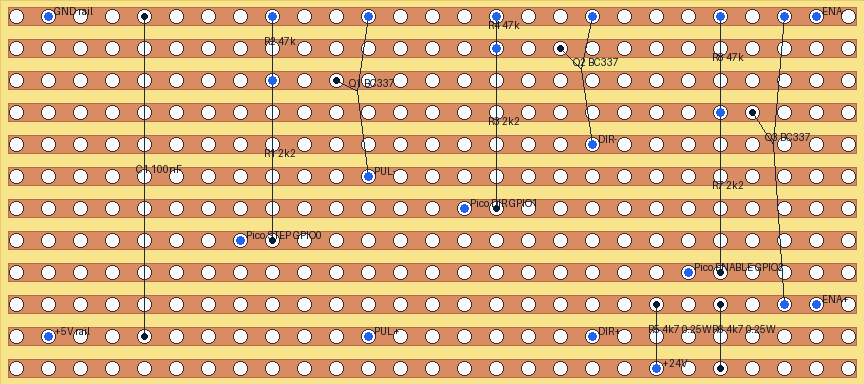
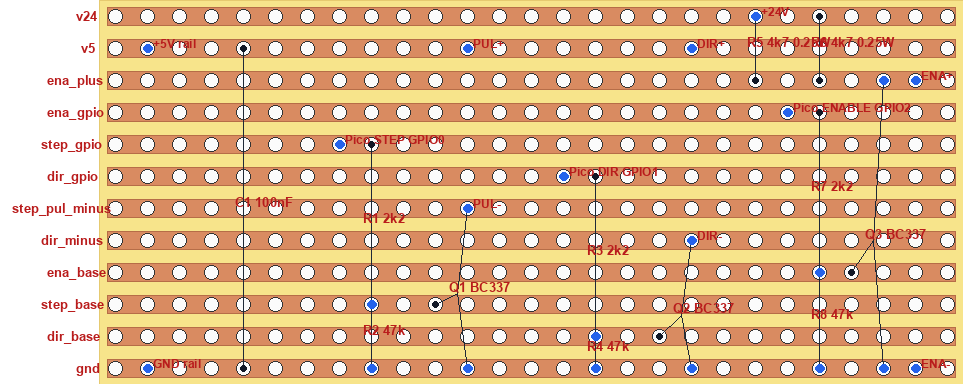
Add better stripboard visu

diff --git a/src/mege_ender_3v3ke_idex/circuit_schematics/dsl.py b/src/mege_ender_3v3ke_idex/circuit_schematics/dsl.py
@@ -45,10 +45,15 @@ STRIPBOARD_HOLE_STROKE = "#333333"
 STRIPBOARD_OVERLAY_NODE_FILL = "#2563eb"
 STRIPBOARD_OVERLAY_TERMINAL_FILL = "#111827"
 STRIPBOARD_OVERLAY_ELEMENT_STROKE = "#1f2937"
-STRIPBOARD_OVERLAY_TEXT_FILL = "#111827"
+STRIPBOARD_OVERLAY_TEXT_FILL = "#b91c1c"
+STRIPBOARD_OVERLAY_TEXT_HALO = "#ffffff"
 STRIPBOARD_OVERLAY_STROKE_WIDTH = 0.045
 STRIPBOARD_OVERLAY_NODE_RADIUS = 0.14
 STRIPBOARD_OVERLAY_TERMINAL_RADIUS = 0.09
+STRIPBOARD_OVERLAY_ELEMENT_LABEL_SIZE = 0.42
+STRIPBOARD_OVERLAY_NODE_LABEL_SIZE = 0.36
+STRIPBOARD_OVERLAY_NET_LABEL_SIZE = 0.42
+STRIPBOARD_OVERLAY_NET_LABEL_MARGIN = 3.1
 
 
 class NodeType(Enum):
@@ -595,12 +600,14 @@ def assign_schema_nets_to_stripboard(
     board_height = len(net_visualizations)
     x_offset = left_margin_pitches - min_col
 
+    board_visualizations = tuple(reversed(net_visualizations))
+
     return StripboardNetAssignment(
         stripboard=create_stripboard(board_width, board_height),
-        net_visualizations=net_visualizations,
+        net_visualizations=board_visualizations,
         net_rows={
             visualization.net_name: row
-            for row, visualization in enumerate(net_visualizations)
+            for row, visualization in enumerate(board_visualizations)
         },
         x_offset=x_offset,
         column_pitch=float(column_pitch),
@@ -912,7 +919,8 @@ def _render_stripboard_png(stripboard, path, scale):
 def _render_stripboard_overlay_svg(stripboard, assignment, schema, path, scale):
     scale = _validate_render_scale(scale)
     width, height = _stripboard_size(stripboard)
-    width_px = width * scale
+    label_margin = STRIPBOARD_OVERLAY_NET_LABEL_MARGIN
+    width_px = (width + label_margin) * scale
     height_px = height * scale
 
     lines = [
@@ -920,7 +928,8 @@ def _render_stripboard_overlay_svg(stripboard, assignment, schema, path, scale):
         (
             f'<svg xmlns="http://www.w3.org/2000/svg" '
             f'width="{width_px:.0f}" height="{height_px:.0f}" '
-            f'viewBox="0 0 {width:.3f} {height:.3f}">'
+            f'viewBox="{-label_margin:.3f} 0 '
+            f'{width + label_margin:.3f} {height:.3f}">'
         ),
         "  <title>Stripboard Schematic Overlay</title>",
         (
@@ -934,6 +943,18 @@ def _render_stripboard_overlay_svg(stripboard, assignment, schema, path, scale):
     for row in range(stripboard.height_pitches):
         x, y, strip_width, strip_height = _stripboard_strip_rect(stripboard, row)
         net_name = _stripboard_row_net_name(assignment, row)
+        if net_name:
+            lines.append(
+                f'  <text class="overlay-net-label" '
+                f'data-row="{row}" data-net="{_svg_attr(net_name)}" '
+                f'x="-0.180" y="{STRIPBOARD_BOARD_MARGIN + row + 0.135:.3f}" '
+                f'font-size="{STRIPBOARD_OVERLAY_NET_LABEL_SIZE:.3f}" '
+                f'font-weight="700" text-anchor="end" '
+                f'fill="{STRIPBOARD_OVERLAY_TEXT_FILL}" '
+                f'stroke="{STRIPBOARD_OVERLAY_TEXT_HALO}" stroke-width="0.075" '
+                f'paint-order="stroke">'
+                f'{_svg_text(net_name)}</text>'
+            )
         lines.append(
             f'  <rect class="copper-strip" data-row="{row}" '
             f'data-net="{_svg_attr(net_name)}" '
@@ -977,8 +998,11 @@ def _render_stripboard_overlay_svg(stripboard, assignment, schema, path, scale):
         lines.append(
             f'  <text class="overlay-element-label" '
             f'x="{center[0]:.3f}" y="{center[1] - 0.18:.3f}" '
-            f'font-size="0.28" text-anchor="middle" '
-            f'fill="{STRIPBOARD_OVERLAY_TEXT_FILL}">'
+            f'font-size="{STRIPBOARD_OVERLAY_ELEMENT_LABEL_SIZE:.3f}" '
+            f'font-weight="700" text-anchor="middle" '
+            f'fill="{STRIPBOARD_OVERLAY_TEXT_FILL}" '
+            f'stroke="{STRIPBOARD_OVERLAY_TEXT_HALO}" stroke-width="0.075" '
+            f'paint-order="stroke">'
             f'{_svg_text(element_overlay["label"])}</text>'
         )
 
@@ -1008,7 +1032,10 @@ def _render_stripboard_overlay_svg(stripboard, assignment, schema, path, scale):
             lines.append(
                 f'  <text class="overlay-node-label" '
                 f'x="{x + 0.18:.3f}" y="{y - 0.16:.3f}" '
-                f'font-size="0.25" fill="{STRIPBOARD_OVERLAY_TEXT_FILL}">'
+                f'font-size="{STRIPBOARD_OVERLAY_NODE_LABEL_SIZE:.3f}" '
+                f'font-weight="700" fill="{STRIPBOARD_OVERLAY_TEXT_FILL}" '
+                f'stroke="{STRIPBOARD_OVERLAY_TEXT_HALO}" stroke-width="0.070" '
+                f'paint-order="stroke">'
                 f'{_svg_text(marker["label"])}</text>'
             )
 
@@ -1026,11 +1053,42 @@ def _render_stripboard_overlay_png(stripboard, assignment, schema, path, scale):
         ) from error
 
     width, height = _stripboard_size(stripboard)
-    image_width = max(1, int(round(width * scale)))
+    label_margin = STRIPBOARD_OVERLAY_NET_LABEL_MARGIN
+    image_width = max(1, int(round((width + label_margin) * scale)))
     image_height = max(1, int(round(height * scale)))
     image = Image.new("RGB", (image_width, image_height), "white")
     draw = ImageDraw.Draw(image)
-    _draw_stripboard_base_png(draw, stripboard, scale)
+    board_image = Image.new(
+        "RGB",
+        (
+            max(1, int(round(width * scale))),
+            image_height,
+        ),
+        "white",
+    )
+    _draw_stripboard_base_png(ImageDraw.Draw(board_image), stripboard, scale)
+    image.paste(board_image, (int(round(label_margin * scale)), 0))
+
+    element_font = _overlay_png_font(scale, STRIPBOARD_OVERLAY_ELEMENT_LABEL_SIZE)
+    node_font = _overlay_png_font(scale, STRIPBOARD_OVERLAY_NODE_LABEL_SIZE)
+    net_font = _overlay_png_font(scale, STRIPBOARD_OVERLAY_NET_LABEL_SIZE)
+
+    for row in range(stripboard.height_pitches):
+        net_name = _stripboard_row_net_name(assignment, row)
+        if not net_name:
+            continue
+        draw.text(
+            _px_point(
+                (
+                    label_margin - 0.2 - len(net_name) * 0.18,
+                    STRIPBOARD_BOARD_MARGIN + row - 0.22,
+                ),
+                scale,
+            ),
+            net_name,
+            fill=STRIPBOARD_OVERLAY_TEXT_FILL,
+            font=net_font,
+        )
 
     element_width = _px_overlay_stroke(scale)
     for element_overlay in _stripboard_overlay_elements(schema, assignment):
@@ -1038,27 +1096,37 @@ def _render_stripboard_overlay_png(stripboard, assignment, schema, path, scale):
         center = element_overlay["center"]
         if len(positions) == 2:
             draw.line(
-                [_px_point(positions[0], scale), _px_point(positions[1], scale)],
+                [
+                    _px_point(_offset_point(positions[0], label_margin, 0), scale),
+                    _px_point(_offset_point(positions[1], label_margin, 0), scale),
+                ],
                 fill=STRIPBOARD_OVERLAY_ELEMENT_STROKE,
                 width=element_width,
             )
         else:
             for position in positions:
                 draw.line(
-                    [_px_point(center, scale), _px_point(position, scale)],
+                    [
+                        _px_point(_offset_point(center, label_margin, 0), scale),
+                        _px_point(_offset_point(position, label_margin, 0), scale),
+                    ],
                     fill=STRIPBOARD_OVERLAY_ELEMENT_STROKE,
                     width=element_width,
                 )
         draw.text(
-            _px_point((center[0] - 0.25, center[1] - 0.42), scale),
+            _px_point(
+                _offset_point((center[0] - 0.25, center[1] - 0.42), label_margin, 0),
+                scale,
+            ),
             element_overlay["label"],
             fill=STRIPBOARD_OVERLAY_TEXT_FILL,
+            font=element_font,
         )
 
     for terminal in _stripboard_overlay_terminals(schema, assignment):
         _draw_px_circle(
             draw,
-            terminal["position"],
+            _offset_point(terminal["position"], label_margin, 0),
             STRIPBOARD_OVERLAY_TERMINAL_RADIUS,
             scale,
             fill=STRIPBOARD_OVERLAY_TERMINAL_FILL,
@@ -1067,7 +1135,7 @@ def _render_stripboard_overlay_png(stripboard, assignment, schema, path, scale):
     for marker in _stripboard_overlay_node_markers(schema, assignment):
         _draw_px_circle(
             draw,
-            marker["position"],
+            _offset_point(marker["position"], label_margin, 0),
             STRIPBOARD_OVERLAY_NODE_RADIUS,
             scale,
             fill=STRIPBOARD_OVERLAY_NODE_FILL,
@@ -1075,9 +1143,10 @@ def _render_stripboard_overlay_png(stripboard, assignment, schema, path, scale):
         if marker["label"]:
             x, y = marker["position"]
             draw.text(
-                _px_point((x + 0.18, y - 0.35), scale),
+                _px_point((x + label_margin + 0.18, y - 0.35), scale),
                 marker["label"],
                 fill=STRIPBOARD_OVERLAY_TEXT_FILL,
+                font=node_font,
             )
 
     image.save(path)
@@ -1266,6 +1335,25 @@ def _draw_px_circle(draw, center, radius, scale, fill):
         ),
         fill=fill,
     )
+
+
+def _overlay_png_font(scale, size_units):
+    try:
+        from PIL import ImageFont
+    except ImportError:
+        return None
+
+    size_px = max(10, int(round(size_units * scale)))
+    for font_name in (
+        "DejaVuSans-Bold.ttf",
+        "Arial Bold.ttf",
+        "Arial.ttf",
+    ):
+        try:
+            return ImageFont.truetype(font_name, size_px)
+        except OSError:
+            pass
+    return ImageFont.load_default()
 
 
 def _validate_positive_integer(value, name):
@@ -1773,6 +1861,10 @@ def _point(value):
 
 def _add_points(a, b):
     return (float(a[0]) + float(b[0]), float(a[1]) + float(b[1]))
+
+
+def _offset_point(point, dx, dy):
+    return (float(point[0]) + float(dx), float(point[1]) + float(dy))
 
 
 def _clamp(value, minimum, maximum):

diff --git a/tests/test_circuit_schematics.py b/tests/test_circuit_schematics.py
@@ -295,7 +295,10 @@ def test_assign_schema_nets_to_stripboard_uses_one_row_per_net():
     assignment = assign_schema_nets_to_stripboard(schema)
 
     assert assignment.stripboard.height_pitches == 3
-    assert assignment.net_rows == {"low": 0, "middle": 1, "top": 2}
+    assert assignment.net_rows == {"top": 0, "middle": 1, "low": 2}
+    assert [
+        visualization.net_name for visualization in assignment.net_visualizations
+    ] == ["top", "middle", "low"]
     assert assignment.stripboard.width_pitches >= 6
 
 
@@ -327,7 +330,9 @@ def test_render_stripboard_overlay_writes_svg(tmp_path):
     assert "<svg" in svg
     assert 'class="copper-strip"' in svg
     assert 'class="hole"' in svg
+    assert 'class="overlay-net-label"' in svg
     assert 'class="overlay-node"' in svg
+    assert ">top</text>" in svg
 
 
 def test_render_stripboard_overlay_writes_png(tmp_path):

diff --git a/src/mege_ender_3v3ke_idex/circuit_schematics/README.md b/src/mege_ender_3v3ke_idex/circuit_schematics/README.md
@@ -78,9 +78,10 @@ is not implemented yet.
 
 There is also a first diagnostic bridge from a logical schematic to a
 stripboard preview. It reads the visible positions of every net in a `Schema`,
-sorts those nets by ascending schematic y coordinate, assigns one full
-horizontal strip to each net, then overlays snapped node and terminal markers
-onto the hole grid.
+sorts those nets by schematic y coordinate, assigns one full horizontal strip
+to each net, then overlays snapped node and terminal markers onto the hole
+grid. The board projection maps the schematic top to the first stripboard row,
+so a bottom ground rail stays at the bottom of the rendered stripboard.
 
 This is a layout aid, not an autorouter. It does not yet place real component
 footprints, add strip cuts, or add jumpers.
